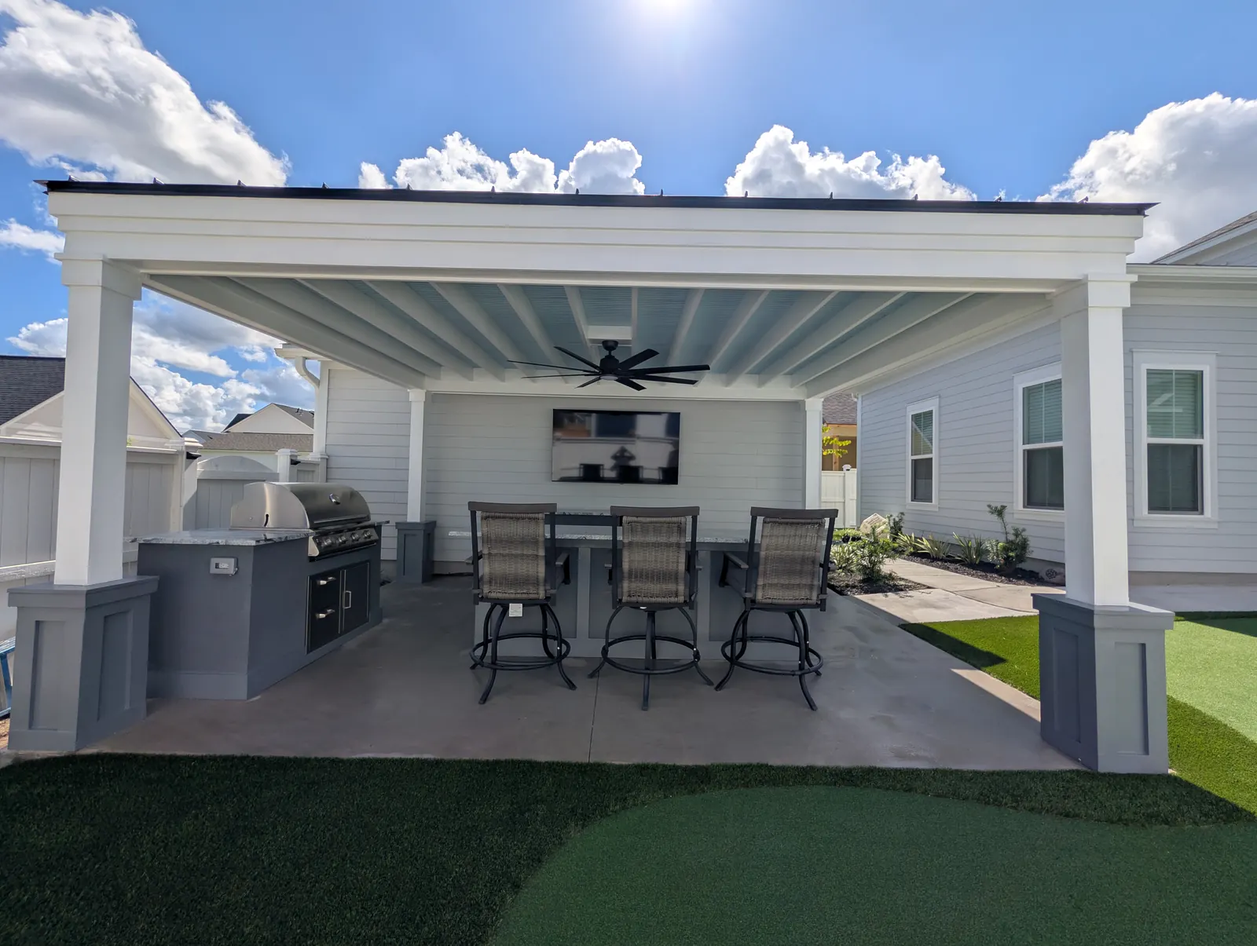
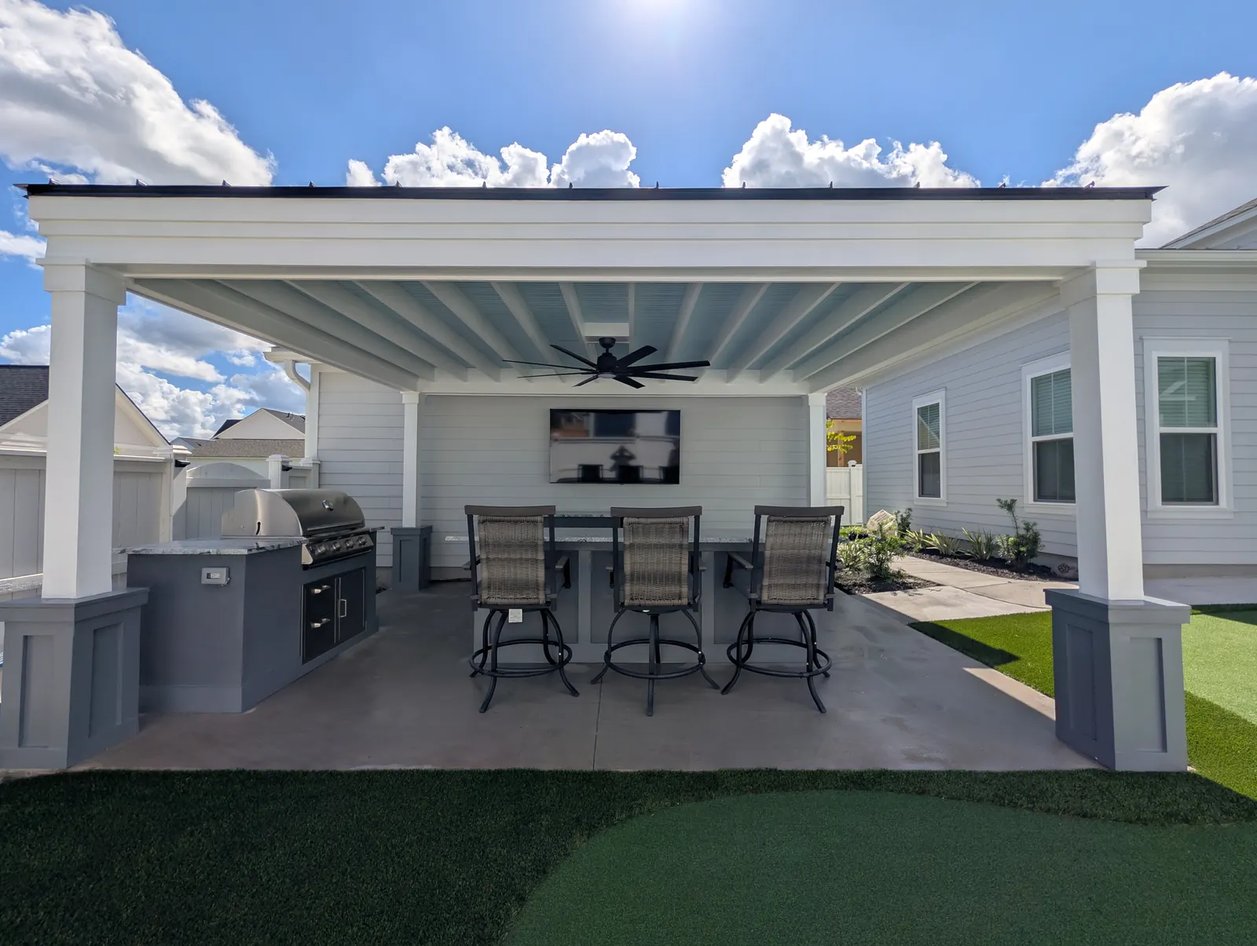
Content fixes from Zach's review: HOA help, free consultation, range-hood fan option, corrected U-kitchen, natural wording, new kitchen lead photo, straightened pergola photo, trimmed night-kitchen bars

Changed region(s): [[0.0, 0.0, 1.0, 0.8598], [0.25, 0.8598, 0.5, 1.0], [0.9062, 0.0614, 1.0, 0.1535]]

diff --git a/outdoor-kitchens.html b/outdoor-kitchens.html
@@ -14,7 +14,7 @@
 <link rel="stylesheet" href="assets/site-fixes.css?v=656ac30cd0">
 <link rel="preload" as="image" href="assets/work/summerville-modern-pergola-kitchen-800.webp" media="(max-width:760px)" fetchpriority="high">
 <link rel="preload" as="image" href="assets/work/summerville-modern-pergola-kitchen-1600.webp" media="(min-width:761px)" fetchpriority="high">
-<script type="application/ld+json">{"@context": "https://schema.org", "@type": "FAQPage", "mainEntity": [{"@type": "Question", "name": "How much does an outdoor kitchen cost?", "acceptedAnswer": {"@type": "Answer", "text": "Most of our outdoor kitchens fall between $8,000 and $20,000+. Appliances are the biggest part of the budget, and we don’t mark them up. The structure overhead (a pergola or pavilion) is priced separately."}}, {"@type": "Question", "name": "Can I supply my own grill and appliances?", "acceptedAnswer": {"@type": "Answer", "text": "Yes. We usually install Blaze appliances, but you’re welcome to choose and supply your own."}}, {"@type": "Question", "name": "Do you run the gas, electrical and plumbing?", "acceptedAnswer": {"@type": "Answer", "text": "Yes, all in-house, along with the permits. Your kitchen is ready to cook on the day we finish, with no second contractor to hire."}}, {"@type": "Question", "name": "How long does it take to build?", "acceptedAnswer": {"@type": "Answer", "text": "A simple kitchen with a pergola is built in about a week. If there’s a structure that needs a permit, allow about 4 to 6 weeks for permitting first. Pavilions take 6 to 8 weeks to build."}}, {"@type": "Question", "name": "Do I need a roof over my outdoor kitchen?", "acceptedAnswer": {"@type": "Answer", "text": "We almost always build one. A pergola or pavilion protects the kitchen, gives you shade and a place for fans, lights and a TV, and makes the space usable in the rain."}}, {"@type": "Question", "name": "Should I add a trash can to the cabinets?", "acceptedAnswer": {"@type": "Answer", "text": "Only if you’ll keep it clean. A built-in trash can is convenient, but a dirty one attracts rats, so we talk it through before adding one."}}]}</script>
+<script type="application/ld+json">{"@context": "https://schema.org", "@type": "FAQPage", "mainEntity": [{"@type": "Question", "name": "How much does an outdoor kitchen cost?", "acceptedAnswer": {"@type": "Answer", "text": "Most of our outdoor kitchens fall between $8,000 and $20,000+. Appliances are usually the biggest part of the cost, and we don’t add any markup to them. A pergola or pavilion over the kitchen is priced separately."}}, {"@type": "Question", "name": "Can I supply my own grill and appliances?", "acceptedAnswer": {"@type": "Answer", "text": "Yes. We usually install Blaze appliances, but you’re welcome to choose and supply your own."}}, {"@type": "Question", "name": "Do you run the gas, electrical and plumbing?", "acceptedAnswer": {"@type": "Answer", "text": "Yes, all in-house, along with the permits. Your kitchen is ready to cook on the day we finish, with no second contractor to hire."}}, {"@type": "Question", "name": "How long does it take to build?", "acceptedAnswer": {"@type": "Answer", "text": "A simple kitchen with a pergola is built in about a week. If there’s a structure that needs a permit, allow about 4 to 6 weeks for permitting first. Pavilions take 6 to 8 weeks to build."}}, {"@type": "Question", "name": "Is the consultation free?", "acceptedAnswer": {"@type": "Answer", "text": "Yes, anywhere in our main service area around Charleston, Mount Pleasant and Summerville. For farther areas like Bluffton or Kiawah Island, there’s a trip charge."}}, {"@type": "Question", "name": "Do I need a roof over my outdoor kitchen?", "acceptedAnswer": {"@type": "Answer", "text": "We almost always build one. A pergola or pavilion protects the kitchen, gives you shade and a place for fans, lights and a TV, and makes the space usable in the rain."}}, {"@type": "Question", "name": "Should I add a trash can to the cabinets?", "acceptedAnswer": {"@type": "Answer", "text": "Only if you’ll keep it clean. A built-in trash can is convenient, but a dirty one attracts rats, so we talk it through before adding one."}}]}</script>
 </head>
 <body>
 <div class="sbx"><span class="lbl">sandbox</span><a href="_all-pages.html">all 61 pages</a><a class="live" href="https://cramerslandscaping.com/outdoor-kitchens/" target="_blank" rel="noopener">compare live &#8599;</a></div><header class="site-head"><div class="wrap"><a class="site-logo" href="index.html"><img src="assets/logo-white-accent.png?v=d468089239" alt="Cramers Landscaping" width="854" height="170"></a><nav><ul class="site-nav"><li class="pill"><a href="index.html">Home</a></li><li class="pill"><a href="services.html">Services</a><div class="mega"><ul><li><a href="landscape-installation.html"><img src="assets/img/water-system-new-1-300x300.webp" alt="" aria-hidden="true">Landscape Installation</a></li><li><a href="hardscape-installation.html"><img src="assets/img/paving-300x300.webp" alt="" aria-hidden="true">Hardscaping</a></li><li><a href="outdoor-structures.html"><img src="assets/img/foundation-1-300x300.webp" alt="" aria-hidden="true">Outdoor Structures</a></li><li><a href="landscape-design.html"><img src="assets/img/digital-art-1.webp" alt="" aria-hidden="true">Landscape Design</a></li></ul></div></li><li class="pill"><a href="about.html">About</a></li><li class="pill"><a href="blog.html">Blog</a></li><li class="btn"><a href="contact-us.html">Contact Us</a></li></ul></nav></div></header>
@@ -27,12 +27,12 @@
 </div>
 <nav class="cl-tabs" aria-label="Sections"><div class="cl-wrap"><ul><li><a href="outdoor-structures.html">Overview</a></li><li><a href="outdoor-kitchens.html" aria-current="page">Outdoor Kitchens</a></li><li><a href="pergolas.html">Pergolas</a></li><li><a href="pergolas-pavilions.html">Pavilions</a></li><li><a href="fountain-water.html">Water Features</a></li><li><a href="outdoor-shower-installation-charleston-sc.html">Outdoor Showers</a></li><li><a href="outdoor-foundation.html">Foundations</a></li></ul></div></nav>
 <div class="cl-sec"><div class="cl-wrap"><div class="cl-two">
-<div class="cl-two-media"><img src="assets/work/summerville-custom-outdoor-kitchen-grill-1600.webp" srcset="assets/work/summerville-custom-outdoor-kitchen-grill-800.webp 800w, assets/work/summerville-custom-outdoor-kitchen-grill-1600.webp 1600w" sizes="(max-width:860px) 100vw, 50vw" alt="Custom outdoor kitchen grill in Summerville, SC" width="1600" height="1205" loading="lazy" decoding="async"></div>
+<div class="cl-two-media"><img src="assets/work/mount-pleasant-custom-outdoor-kitchen-1600.webp" srcset="assets/work/mount-pleasant-custom-outdoor-kitchen-800.webp 800w, assets/work/mount-pleasant-custom-outdoor-kitchen-1600.webp 1600w" sizes="(max-width:860px) 100vw, 50vw" alt="Custom outdoor kitchen in Mount Pleasant, SC" width="1170" height="878" loading="lazy" decoding="async"></div>
 <div>
 
 <p class="cl-eyebrow-line">Designed &amp; Built In-House</p>
 <h2>Outdoor Kitchens Built for <span class="g">How You Actually Cook and Host</span></h2>
-<p>An outdoor kitchen is usually the heart of an outdoor living space. It’s where everyone ends up. We design and build yours from start to finish with our own team, including the <strong>gas lines, electrical, plumbing and permits</strong>. There’s no hand-off to other contractors and nothing left for you to chase down, and the kitchen is ready to use the day we finish.</p>
+<p>An outdoor kitchen is usually the heart of an outdoor living space. It’s where everyone ends up. We design and build yours from start to finish with our own team, including the <strong>gas lines, electrical, plumbing and permits</strong>. You won’t need to hire anyone else, and the kitchen is ready to cook on the day we finish.</p>
 <p>Doug and Zach Cramer design every kitchen around how you’ll use it, what you want to spend, and the style of your home, so it looks like it belongs there.</p>
 
 </div>
@@ -63,7 +63,7 @@
 <li><strong>Wood cabinets</strong> give a warmer, rustic look. We’ve built several and they’ve turned out great.</li>
 <li><strong>Concrete countertops</strong> are a solid lower-cost option.</li>
 </ul>
-<p><strong>Appliances:</strong> we usually install <strong>Blaze</strong>, but you’re welcome to supply your own. Appliances make up a large share of the budget, and we don’t mark them up.</p>
+<p>For appliances, we usually install <strong>Blaze</strong>, but you’re welcome to pick out your own. Appliances tend to be the biggest part of a kitchen’s cost, and we don’t add any markup to them.</p>
 
 </div>
 </div></div></div>
@@ -71,36 +71,36 @@
 
 <h2>The Details <span class="g">That Matter Later</span></h2>
 <figure class="cl-inline l w"><img src="assets/work/james-island-rustic-back-porch-kitchen-1600.webp" srcset="assets/work/james-island-rustic-back-porch-kitchen-800.webp 800w, assets/work/james-island-rustic-back-porch-kitchen-1600.webp 1600w" sizes="(max-width:860px) 100vw, 45vw" alt="Rustic back porch kitchen in James Island, SC" width="1600" height="1200" loading="lazy" decoding="async"><figcaption>Rustic back porch kitchen — James Island, SC</figcaption></figure>
-<p><strong>A range hood over the grill.</strong> Under a porch, pergola or pavilion roof, grill smoke and grease rise and collect on the ceiling. Without a hood, you’re cleaning it constantly and it can damage the paint. We add one whenever the grill sits under a roof.</p>
-<p><strong>Lighting where you work.</strong> Task lighting over prep areas and the bar top means the kitchen works after dark, not just at noon.</p>
-<p><strong>Room for people.</strong> Most kitchens are planned around the cook. We plan the seating, walking space and sight lines so guests are part of the conversation instead of standing in the way.</p>
+<p><strong>A range hood over the grill.</strong> When a grill sits under a porch, pergola or pavilion roof, the smoke and grease rise and collect on the ceiling. Over time that means a lot of cleaning, and it can damage the paint. We recommend a range hood whenever the grill is under a roof.</p>
+<p>If a hood doesn’t fit the budget, running the ceiling fan and adding a second fan to push the smoke out works well. That’s what we did on the pergola kitchen in Summerville.</p>
+<p><strong>Lighting where you cook.</strong> Good lighting over the grill and the bar top means the kitchen works just as well after dark.</p>
 
 </div></div>
 <div class="cl-sec mint"><div class="cl-wrap cl-has-inline">
 
-<h2>Our Most Elaborate Build: <span class="g">A Three-Station U-Kitchen</span></h2>
+<h2>A Three-Station Kitchen <span class="g">Built for Entertaining</span></h2>
 <figure class="cl-inline r p"><img src="assets/work/summerville-outdoor-kitchen-stone-bar-patio-1600.webp" srcset="assets/work/summerville-outdoor-kitchen-stone-bar-patio-800.webp 800w, assets/work/summerville-outdoor-kitchen-stone-bar-patio-1600.webp 1600w" sizes="(max-width:860px) 100vw, 45vw" alt="Outdoor kitchen stone bar patio in Summerville, SC" width="1400" height="1600" loading="lazy" decoding="async"><figcaption>Outdoor kitchen stone bar patio — Summerville, SC</figcaption></figure>
-<p>Our biggest outdoor kitchen so far wraps around the cook in a U shape with three separate stations:</p>
+<p>One of our favorite kitchens wraps around in a U shape with three separate stations:</p>
 <ul class="body">
-<li>A grill with its own range hood, a flat-top griddle and a pizza oven</li>
-<li>Two refrigerators, one with slide-out drawers, plus a sink and plenty of cabinet storage</li>
+<li>A grill with its own range hood, plus a Big Green Egg</li>
+<li>Two refrigerators, one with slide-out drawers, a sink and plenty of cabinet storage</li>
 <li>A bar-top seating station with a sapele wood foot rail</li>
 <li>Custom light fixtures hung over one of the work stations and over the bar top</li>
 </ul>
-<p>Not every kitchen needs all of that, but it shows what’s possible when a kitchen is designed around the way a family actually entertains.</p>
+<p>Most kitchens don’t need all of that, but it shows how a kitchen can be designed around the way a family likes to entertain.</p>
 
 </div></div>
 <div class="cl-sec"><div class="cl-wrap">
 
 <h2>What an Outdoor Kitchen <span class="g">Typically Costs</span></h2>
 <table class="cl-prices"><tbody><tr><th scope="row">Outdoor kitchen</th><td>$8,000 – $20,000+</td></tr><tr><th scope="row">Pergola overhead</th><td>$10,000 – $30,000</td></tr><tr><th scope="row">Pavilion overhead</th><td>$30,000 – $90,000+</td></tr></tbody></table>
-<p class="cl-price-note">The biggest factor is appliances, which we don’t mark up. Size, countertop and cabinet materials, and the gas, electrical and plumbing runs also affect the price. You’ll get an exact quote once the design is set.</p>
+<p class="cl-price-note">Appliances have the biggest effect on the price, and we don’t mark them up. Size, countertop and cabinet materials, and how far the gas, electrical and plumbing need to run also play a part. You’ll get an exact quote once the design is set.</p>
 </div></div>
 <div class="cl-sec mint"><div class="cl-wrap">
 
 <h2>How We <span class="g">Build Yours</span></h2>
 <ol class="body">
-<li><strong>Consultation at your home</strong>, usually within a week of your call. We talk about how you cook and host and what budget you’re comfortable with.</li>
+<li><strong>Free consultation at your home</strong>, usually within a week of your call. We talk about how you cook and host and what budget you’re comfortable with.</li>
 <li><strong>Budget</strong> within about a week.</li>
 <li><strong>Design</strong>: 3D renderings and drawings, 1 to 4 weeks depending on complexity. We match the kitchen to your home’s architecture.</li>
 <li><strong>Final quote and permits.</strong> Structures need a permit, which takes about 4 to 6 weeks.</li>
@@ -111,7 +111,7 @@
 </div></div>
 <div class="cl-sec"><div class="cl-wrap">
 <h2>Frequently Asked <span class="g">Questions</span></h2>
-<div class="cl-faq"><details open><summary>How much does an outdoor kitchen cost?</summary><p>Most of our outdoor kitchens fall between $8,000 and $20,000+. Appliances are the biggest part of the budget, and we don’t mark them up. The structure overhead (a pergola or pavilion) is priced separately.</p></details><details><summary>Can I supply my own grill and appliances?</summary><p>Yes. We usually install Blaze appliances, but you’re welcome to choose and supply your own.</p></details><details><summary>Do you run the gas, electrical and plumbing?</summary><p>Yes, all in-house, along with the permits. Your kitchen is ready to cook on the day we finish, with no second contractor to hire.</p></details><details><summary>How long does it take to build?</summary><p>A simple kitchen with a pergola is built in about a week. If there’s a structure that needs a permit, allow about 4 to 6 weeks for permitting first. Pavilions take 6 to 8 weeks to build.</p></details><details><summary>Do I need a roof over my outdoor kitchen?</summary><p>We almost always build one. A pergola or pavilion protects the kitchen, gives you shade and a place for fans, lights and a TV, and makes the space usable in the rain.</p></details><details><summary>Should I add a trash can to the cabinets?</summary><p>Only if you’ll keep it clean. A built-in trash can is convenient, but a dirty one attracts rats, so we talk it through before adding one.</p></details></div>
+<div class="cl-faq"><details open><summary>How much does an outdoor kitchen cost?</summary><p>Most of our outdoor kitchens fall between $8,000 and $20,000+. Appliances are usually the biggest part of the cost, and we don’t add any markup to them. A pergola or pavilion over the kitchen is priced separately.</p></details><details><summary>Can I supply my own grill and appliances?</summary><p>Yes. We usually install Blaze appliances, but you’re welcome to choose and supply your own.</p></details><details><summary>Do you run the gas, electrical and plumbing?</summary><p>Yes, all in-house, along with the permits. Your kitchen is ready to cook on the day we finish, with no second contractor to hire.</p></details><details><summary>How long does it take to build?</summary><p>A simple kitchen with a pergola is built in about a week. If there’s a structure that needs a permit, allow about 4 to 6 weeks for permitting first. Pavilions take 6 to 8 weeks to build.</p></details><details><summary>Is the consultation free?</summary><p>Yes, anywhere in our main service area around Charleston, Mount Pleasant and Summerville. For farther areas like Bluffton or Kiawah Island, there’s a trip charge.</p></details><details><summary>Do I need a roof over my outdoor kitchen?</summary><p>We almost always build one. A pergola or pavilion protects the kitchen, gives you shade and a place for fans, lights and a TV, and makes the space usable in the rain.</p></details><details><summary>Should I add a trash can to the cabinets?</summary><p>Only if you’ll keep it clean. A built-in trash can is convenient, but a dirty one attracts rats, so we talk it through before adding one.</p></details></div>
 </div></div>
 <div class="cl-sec mint"><div class="cl-wrap">
 <h2><span class="cl-eyebrow">Plan</span> Your Outdoor <span class="cl-eyebrow">Kitchen</span></h2>

diff --git a/portfolio.html b/portfolio.html
@@ -199,7 +199,7 @@ This job showcased our masonry with the brick columns and bluestone and showcase
 <figure><a href="assets/work/mount-pleasant-wood-deck-under-a-live-oak-1600.webp" target="_blank" rel="noopener"><img src="assets/work/mount-pleasant-wood-deck-under-a-live-oak-800.webp" srcset="assets/work/mount-pleasant-wood-deck-under-a-live-oak-800.webp 800w, assets/work/mount-pleasant-wood-deck-under-a-live-oak-1600.webp 1600w" sizes="(max-width:900px) 50vw, 33vw" alt="Wood deck under a live oak in Mount Pleasant, SC" width="1600" height="1200" loading="lazy" decoding="async"></a><figcaption>Wood deck under a live oak — Mount Pleasant, SC</figcaption></figure>
 <figure><a href="assets/work/north-charleston-back-porch-kitchen-addition-1600.webp" target="_blank" rel="noopener"><img src="assets/work/north-charleston-back-porch-kitchen-addition-800.webp" srcset="assets/work/north-charleston-back-porch-kitchen-addition-800.webp 800w, assets/work/north-charleston-back-porch-kitchen-addition-1600.webp 1600w" sizes="(max-width:900px) 50vw, 33vw" alt="Back porch kitchen addition in North Charleston, SC" width="1600" height="1200" loading="lazy" decoding="async"></a><figcaption>Back porch kitchen addition — North Charleston, SC</figcaption></figure>
 <figure><a href="assets/work/north-charleston-bluestone-patio-and-new-lawn-1600.webp" target="_blank" rel="noopener"><img src="assets/work/north-charleston-bluestone-patio-and-new-lawn-800.webp" srcset="assets/work/north-charleston-bluestone-patio-and-new-lawn-800.webp 800w, assets/work/north-charleston-bluestone-patio-and-new-lawn-1600.webp 1600w" sizes="(max-width:900px) 50vw, 33vw" alt="Bluestone patio and new lawn in North Charleston, SC" width="1600" height="1200" loading="lazy" decoding="async"></a><figcaption>Bluestone patio and new lawn — North Charleston, SC</figcaption></figure>
-<figure><a href="assets/work/north-charleston-custom-outdoor-kitchen-1600.webp" target="_blank" rel="noopener"><img src="assets/work/north-charleston-custom-outdoor-kitchen-800.webp" srcset="assets/work/north-charleston-custom-outdoor-kitchen-800.webp 800w, assets/work/north-charleston-custom-outdoor-kitchen-1600.webp 1600w" sizes="(max-width:900px) 50vw, 33vw" alt="Custom outdoor kitchen in North Charleston, SC" width="1600" height="739" loading="lazy" decoding="async"></a><figcaption>Custom outdoor kitchen — North Charleston, SC</figcaption></figure>
+<figure><a href="assets/work/north-charleston-custom-outdoor-kitchen-1600.webp" target="_blank" rel="noopener"><img src="assets/work/north-charleston-custom-outdoor-kitchen-800.webp" srcset="assets/work/north-charleston-custom-outdoor-kitchen-800.webp 800w, assets/work/north-charleston-custom-outdoor-kitchen-1600.webp 1600w" sizes="(max-width:900px) 50vw, 33vw" alt="Custom outdoor kitchen in North Charleston, SC" width="800" height="450" loading="lazy" decoding="async"></a><figcaption>Custom outdoor kitchen — North Charleston, SC</figcaption></figure>
 <figure><a href="assets/work/north-charleston-pergola-over-a-paver-patio-1600.webp" target="_blank" rel="noopener"><img src="assets/work/north-charleston-pergola-over-a-paver-patio-800.webp" srcset="assets/work/north-charleston-pergola-over-a-paver-patio-800.webp 800w, assets/work/north-charleston-pergola-over-a-paver-patio-1600.webp 1600w" sizes="(max-width:900px) 50vw, 33vw" alt="Pergola over a paver patio in North Charleston, SC" width="1500" height="675" loading="lazy" decoding="async"></a><figcaption>Pergola over a paver patio — North Charleston, SC</figcaption></figure>
 <figure><a href="assets/work/north-charleston-pergola-swing-set-around-a-fire-pit-1600.webp" target="_blank" rel="noopener"><img src="assets/work/north-charleston-pergola-swing-set-around-a-fire-pit-800.webp" srcset="assets/work/north-charleston-pergola-swing-set-around-a-fire-pit-800.webp 800w, assets/work/north-charleston-pergola-swing-set-around-a-fire-pit-1600.webp 1600w" sizes="(max-width:900px) 50vw, 33vw" alt="Pergola swing set around a fire pit in North Charleston, SC" width="1200" height="1600" loading="lazy" decoding="async"></a><figcaption>Pergola swing set around a fire pit — North Charleston, SC</figcaption></figure>
 <figure><a href="assets/work/north-charleston-wood-privacy-fence-1600.webp" target="_blank" rel="noopener"><img src="assets/work/north-charleston-wood-privacy-fence-800.webp" srcset="assets/work/north-charleston-wood-privacy-fence-800.webp 800w, assets/work/north-charleston-wood-privacy-fence-1600.webp 1600w" sizes="(max-width:900px) 50vw, 33vw" alt="Wood privacy fence in North Charleston, SC" width="1200" height="1200" loading="lazy" decoding="async"></a><figcaption>Wood privacy fence — North Charleston, SC</figcaption></figure>
@@ -216,7 +216,7 @@ This job showcased our masonry with the brick columns and bluestone and showcase
 <figure><a href="assets/work/summerville-custom-outdoor-kitchen-3-1600.webp" target="_blank" rel="noopener"><img src="assets/work/summerville-custom-outdoor-kitchen-3-800.webp" srcset="assets/work/summerville-custom-outdoor-kitchen-3-800.webp 800w, assets/work/summerville-custom-outdoor-kitchen-3-1600.webp 1600w" sizes="(max-width:900px) 50vw, 33vw" alt="Custom outdoor kitchen in Summerville, SC" width="1600" height="1205" loading="lazy" decoding="async"></a><figcaption>Custom outdoor kitchen — Summerville, SC</figcaption></figure>
 <figure><a href="assets/work/summerville-custom-outdoor-kitchen-grill-1600.webp" target="_blank" rel="noopener"><img src="assets/work/summerville-custom-outdoor-kitchen-grill-800.webp" srcset="assets/work/summerville-custom-outdoor-kitchen-grill-800.webp 800w, assets/work/summerville-custom-outdoor-kitchen-grill-1600.webp 1600w" sizes="(max-width:900px) 50vw, 33vw" alt="Custom outdoor kitchen grill in Summerville, SC" width="1600" height="1205" loading="lazy" decoding="async"></a><figcaption>Custom outdoor kitchen grill — Summerville, SC</figcaption></figure>
 <figure><a href="assets/work/summerville-custom-outdoor-kitchen-patio-design-1600.webp" target="_blank" rel="noopener"><img src="assets/work/summerville-custom-outdoor-kitchen-patio-design-800.webp" srcset="assets/work/summerville-custom-outdoor-kitchen-patio-design-800.webp 800w, assets/work/summerville-custom-outdoor-kitchen-patio-design-1600.webp 1600w" sizes="(max-width:900px) 50vw, 33vw" alt="Custom outdoor kitchen patio design in Summerville, SC" width="1400" height="1600" loading="lazy" decoding="async"></a><figcaption>Custom outdoor kitchen patio design — Summerville, SC</figcaption></figure>
-<figure><a href="assets/work/summerville-custom-pergola-outdoor-kitchen-1600.webp" target="_blank" rel="noopener"><img src="assets/work/summerville-custom-pergola-outdoor-kitchen-800.webp" srcset="assets/work/summerville-custom-pergola-outdoor-kitchen-800.webp 800w, assets/work/summerville-custom-pergola-outdoor-kitchen-1600.webp 1600w" sizes="(max-width:900px) 50vw, 33vw" alt="Custom pergola outdoor kitchen in Summerville, SC" width="1600" height="1205" loading="lazy" decoding="async"></a><figcaption>Custom pergola outdoor kitchen — Summerville, SC</figcaption></figure>
+<figure><a href="assets/work/summerville-custom-pergola-outdoor-kitchen-1600.webp" target="_blank" rel="noopener"><img src="assets/work/summerville-custom-pergola-outdoor-kitchen-800.webp" srcset="assets/work/summerville-custom-pergola-outdoor-kitchen-800.webp 800w, assets/work/summerville-custom-pergola-outdoor-kitchen-1600.webp 1600w" sizes="(max-width:900px) 50vw, 33vw" alt="Custom pergola outdoor kitchen in Summerville, SC" width="800" height="602" loading="lazy" decoding="async"></a><figcaption>Custom pergola outdoor kitchen — Summerville, SC</figcaption></figure>
 <figure><a href="assets/work/summerville-custom-pool-fire-features-landscape-1600.webp" target="_blank" rel="noopener"><img src="assets/work/summerville-custom-pool-fire-features-landscape-800.webp" srcset="assets/work/summerville-custom-pool-fire-features-landscape-800.webp 800w, assets/work/summerville-custom-pool-fire-features-landscape-1600.webp 1600w" sizes="(max-width:900px) 50vw, 33vw" alt="Custom pool fire features landscape in Summerville, SC" width="900" height="1600" loading="lazy" decoding="async"></a><figcaption>Custom pool fire features landscape — Summerville, SC</figcaption></figure>
 <figure><a href="assets/work/summerville-custom-putting-green-outdoor-living-1600.webp" target="_blank" rel="noopener"><img src="assets/work/summerville-custom-putting-green-outdoor-living-800.webp" srcset="assets/work/summerville-custom-putting-green-outdoor-living-800.webp 800w, assets/work/summerville-custom-putting-green-outdoor-living-1600.webp 1600w" sizes="(max-width:900px) 50vw, 33vw" alt="Custom putting green outdoor living in Summerville, SC" width="1600" height="1205" loading="lazy" decoding="async"></a><figcaption>Custom putting green outdoor living — Summerville, SC</figcaption></figure>
 <figure><a href="assets/work/summerville-customized-backyard-bar-seating-area-1600.webp" target="_blank" rel="noopener"><img src="assets/work/summerville-customized-backyard-bar-seating-area-800.webp" srcset="assets/work/summerville-customized-backyard-bar-seating-area-800.webp 800w, assets/work/summerville-customized-backyard-bar-seating-area-1600.webp 1600w" sizes="(max-width:900px) 50vw, 33vw" alt="Customized backyard bar seating area in Summerville, SC" width="1200" height="1600" loading="lazy" decoding="async"></a><figcaption>Customized backyard bar seating area — Summerville, SC</figcaption></figure>

diff --git a/summerville-sc.html b/summerville-sc.html
@@ -14,7 +14,7 @@
 <link rel="stylesheet" href="assets/site-fixes.css?v=656ac30cd0">
 <link rel="preload" as="image" href="assets/work/summerville-porch-addition-paver-patio-800.webp" media="(max-width:760px)" fetchpriority="high">
 <link rel="preload" as="image" href="assets/work/summerville-porch-addition-paver-patio-1600.webp" media="(min-width:761px)" fetchpriority="high">
-<script type="application/ld+json">{"@context": "https://schema.org", "@type": "FAQPage", "mainEntity": [{"@type": "Question", "name": "How soon can you come look at my yard?", "acceptedAnswer": {"@type": "Answer", "text": "Usually within a week, and often in just a couple of days. Doug or Zach comes out in person for the consultation."}}, {"@type": "Question", "name": "Do I have to pay for a design?", "acceptedAnswer": {"@type": "Answer", "text": "Not for smaller, straightforward jobs: we quote and plan those right after the consultation. Larger projects get a paid design with 3D renderings and drawings; on smaller designs that fee can be credited toward the build."}}, {"@type": "Question", "name": "My new-construction yard in Nexton or Summers Corner holds water. Can you fix it?", "acceptedAnswer": {"@type": "Answer", "text": "Yes. Drainage problems are common in new builds around Summerville. We regrade and add drainage so water moves away from the house, and we can plan the lawn and beds at the same time so it only gets done once."}}, {"@type": "Question", "name": "Does my neighborhood need HOA approval?", "acceptedAnswer": {"@type": "Answer", "text": "Some Summerville neighborhoods do. We’ll tell you up front if yours does and make sure the plan fits the guidelines before anything is built."}}, {"@type": "Question", "name": "Do you take small jobs like sod, mulch or an irrigation repair?", "acceptedAnswer": {"@type": "Answer", "text": "Yes. There’s no minimum job size. A job that’s less than a day’s work is simply priced for the partial day."}}, {"@type": "Question", "name": "Do you handle permits, gas and electrical for kitchens and pergolas?", "acceptedAnswer": {"@type": "Answer", "text": "Yes, all in-house. Permits, gas lines, electrical and plumbing are handled by our own team, so nothing gets left for you to chase down after we finish."}}]}</script>
+<script type="application/ld+json">{"@context": "https://schema.org", "@type": "FAQPage", "mainEntity": [{"@type": "Question", "name": "How soon can you come look at my yard?", "acceptedAnswer": {"@type": "Answer", "text": "Usually within a week, and often in just a couple of days. Doug or Zach comes out in person, and the consultation is free."}}, {"@type": "Question", "name": "Do I have to pay for a design?", "acceptedAnswer": {"@type": "Answer", "text": "Not for smaller, straightforward jobs: we quote and plan those right after the consultation. Larger projects get a paid design with 3D renderings and drawings; on smaller designs that fee can be credited toward the build."}}, {"@type": "Question", "name": "My new-construction yard in Nexton or Summers Corner holds water. Can you fix it?", "acceptedAnswer": {"@type": "Answer", "text": "Yes. Drainage problems are common in new builds around Summerville. We regrade and add drainage so water moves away from the house, and we can plan the lawn and beds at the same time so it only gets done once."}}, {"@type": "Question", "name": "Does my neighborhood need HOA approval?", "acceptedAnswer": {"@type": "Answer", "text": "Some Summerville neighborhoods do. We’ll let you know up front, design to your HOA’s guidelines, and we can prepare and submit the application for you."}}, {"@type": "Question", "name": "Do you take small jobs like sod, mulch or an irrigation repair?", "acceptedAnswer": {"@type": "Answer", "text": "Yes. There’s no minimum job size. A job that’s less than a day’s work is simply priced for the partial day."}}, {"@type": "Question", "name": "Do you handle permits, gas and electrical for kitchens and pergolas?", "acceptedAnswer": {"@type": "Answer", "text": "Yes, all in-house. Permits, gas lines, electrical and plumbing are handled by our own team, so nothing gets left for you to chase down after we finish."}}]}</script>
 </head>
 <body>
 <div class="sbx"><span class="lbl">sandbox</span><a href="_all-pages.html">all 61 pages</a><a class="live" href="https://cramerslandscaping.com/summerville-sc/" target="_blank" rel="noopener">compare live &#8599;</a></div><header class="site-head"><div class="wrap"><a class="site-logo" href="index.html"><img src="assets/logo-white-accent.png?v=d468089239" alt="Cramers Landscaping" width="854" height="170"></a><nav><ul class="site-nav"><li class="pill"><a href="index.html">Home</a></li><li class="pill"><a href="services.html">Services</a><div class="mega"><ul><li><a href="landscape-installation.html"><img src="assets/img/water-system-new-1-300x300.webp" alt="" aria-hidden="true">Landscape Installation</a></li><li><a href="hardscape-installation.html"><img src="assets/img/paving-300x300.webp" alt="" aria-hidden="true">Hardscaping</a></li><li><a href="outdoor-structures.html"><img src="assets/img/foundation-1-300x300.webp" alt="" aria-hidden="true">Outdoor Structures</a></li><li><a href="landscape-design.html"><img src="assets/img/digital-art-1.webp" alt="" aria-hidden="true">Landscape Design</a></li></ul></div></li><li class="pill"><a href="about.html">About</a></li><li class="pill"><a href="blog.html">Blog</a></li><li class="btn"><a href="contact-us.html">Contact Us</a></li></ul></nav></div></header>
@@ -102,11 +102,11 @@
 </div></div>
 <div class="cl-sec"><div class="cl-wrap">
 <h2>Frequently Asked <span class="g">Questions</span></h2>
-<div class="cl-faq"><details open><summary>How soon can you come look at my yard?</summary><p>Usually within a week, and often in just a couple of days. Doug or Zach comes out in person for the consultation.</p></details><details><summary>Do I have to pay for a design?</summary><p>Not for smaller, straightforward jobs: we quote and plan those right after the consultation. Larger projects get a paid design with 3D renderings and drawings; on smaller designs that fee can be credited toward the build.</p></details><details><summary>My new-construction yard in Nexton or Summers Corner holds water. Can you fix it?</summary><p>Yes. Drainage problems are common in new builds around Summerville. We regrade and add drainage so water moves away from the house, and we can plan the lawn and beds at the same time so it only gets done once.</p></details><details><summary>Does my neighborhood need HOA approval?</summary><p>Some Summerville neighborhoods do. We’ll tell you up front if yours does and make sure the plan fits the guidelines before anything is built.</p></details><details><summary>Do you take small jobs like sod, mulch or an irrigation repair?</summary><p>Yes. There’s no minimum job size. A job that’s less than a day’s work is simply priced for the partial day.</p></details><details><summary>Do you handle permits, gas and electrical for kitchens and pergolas?</summary><p>Yes, all in-house. Permits, gas lines, electrical and plumbing are handled by our own team, so nothing gets left for you to chase down after we finish.</p></details></div>
+<div class="cl-faq"><details open><summary>How soon can you come look at my yard?</summary><p>Usually within a week, and often in just a couple of days. Doug or Zach comes out in person, and the consultation is free.</p></details><details><summary>Do I have to pay for a design?</summary><p>Not for smaller, straightforward jobs: we quote and plan those right after the consultation. Larger projects get a paid design with 3D renderings and drawings; on smaller designs that fee can be credited toward the build.</p></details><details><summary>My new-construction yard in Nexton or Summers Corner holds water. Can you fix it?</summary><p>Yes. Drainage problems are common in new builds around Summerville. We regrade and add drainage so water moves away from the house, and we can plan the lawn and beds at the same time so it only gets done once.</p></details><details><summary>Does my neighborhood need HOA approval?</summary><p>Some Summerville neighborhoods do. We’ll let you know up front, design to your HOA’s guidelines, and we can prepare and submit the application for you.</p></details><details><summary>Do you take small jobs like sod, mulch or an irrigation repair?</summary><p>Yes. There’s no minimum job size. A job that’s less than a day’s work is simply priced for the partial day.</p></details><details><summary>Do you handle permits, gas and electrical for kitchens and pergolas?</summary><p>Yes, all in-house. Permits, gas lines, electrical and plumbing are handled by our own team, so nothing gets left for you to chase down after we finish.</p></details></div>
 </div></div>
 <div class="cl-sec mint"><div class="cl-wrap">
 <h2><span class="cl-eyebrow">Talk to</span> Doug or Zach <span class="cl-eyebrow">About Your Yard</span></h2>
-<p>Tell us what you have in mind for your Summerville yard, whether that’s a quick sod job or a full backyard, and we’ll set up a time to come out.</p>
+<p>Tell us what you have in mind for your Summerville yard, whether that’s a quick sod job or a full backyard, and we’ll set up a free consultation at your home.</p>
 <form class="cl-form" action="#" data-wpforms-id="1123">
   <div class="cl-form-row">
     <label for="name">Name <span class="req">*</span></label>

diff --git a/north-charleston-sc.html b/north-charleston-sc.html
@@ -90,7 +90,7 @@
 <p><span style="font-weight: 400;">We serve a wide range of property types in North Charleston, including:</span></p> <ul class="body"> <li style="font-weight: 400;" aria-level="1"><span style="font-weight: 400;">Primary homes</span></li> <li style="font-weight: 400;" aria-level="1"><span style="font-weight: 400;">Rental properties</span></li> <li style="font-weight: 400;" aria-level="1"><span style="font-weight: 400;">Short-term rental properties</span></li> <li style="font-weight: 400;" aria-level="1"><span style="font-weight: 400;">Multi-family residences</span></li> <li style="font-weight: 400;" aria-level="1"><span style="font-weight: 400;">Office buildings</span></li> <li style="font-weight: 400;" aria-level="1"><span style="font-weight: 400;">HOA and condo complexes</span></li> <li style="font-weight: 400;" aria-level="1"><span style="font-weight: 400;">New developments and spec builds</span></li> </ul> <p><span style="font-weight: 400;">For owners of investment or rental properties, we offer landscape packages designed to enhance curb appeal, reduce maintenance demands, and improve tenant and guest experiences.</span></p>
 <div class="cl-carousel"><input type="radio" name="g-north-charleston-sc-1" id="g-north-charleston-sc-1-1" checked><input type="radio" name="g-north-charleston-sc-1" id="g-north-charleston-sc-1-2">
 <div class="cl-slides">
-  <figure class="cl-slide"><img src="assets/work/north-charleston-custom-outdoor-kitchen-1600.webp" srcset="assets/work/north-charleston-custom-outdoor-kitchen-800.webp 800w, assets/work/north-charleston-custom-outdoor-kitchen-1600.webp 1600w" sizes="(max-width:860px) 100vw, 50vw" alt="Custom outdoor kitchen in North Charleston, SC" width="1600" height="739" loading="lazy" decoding="async"><label class="cl-prev" for="g-north-charleston-sc-1-2" title="Previous" aria-label="Previous">&#8249;</label><label class="cl-next" for="g-north-charleston-sc-1-2" title="Next" aria-label="Next">&#8250;</label><span class="cl-count">1 / 2</span></figure>
+  <figure class="cl-slide"><img src="assets/work/north-charleston-custom-outdoor-kitchen-1600.webp" srcset="assets/work/north-charleston-custom-outdoor-kitchen-800.webp 800w, assets/work/north-charleston-custom-outdoor-kitchen-1600.webp 1600w" sizes="(max-width:860px) 100vw, 50vw" alt="Custom outdoor kitchen in North Charleston, SC" width="1600" height="900" loading="lazy" decoding="async"><label class="cl-prev" for="g-north-charleston-sc-1-2" title="Previous" aria-label="Previous">&#8249;</label><label class="cl-next" for="g-north-charleston-sc-1-2" title="Next" aria-label="Next">&#8250;</label><span class="cl-count">1 / 2</span></figure>
   <figure class="cl-slide"><img src="assets/work/outdoor-kitchen-island-6fcf-1600.webp" srcset="assets/work/outdoor-kitchen-island-6fcf-800.webp 800w, assets/work/outdoor-kitchen-island-6fcf-1600.webp 1600w" sizes="(max-width:860px) 100vw, 50vw" alt="Outdoor kitchen island by Cramers Landscaping" width="1600" height="1205" loading="lazy" decoding="async"><label class="cl-prev" for="g-north-charleston-sc-1-1" title="Previous" aria-label="Previous">&#8249;</label><label class="cl-next" for="g-north-charleston-sc-1-1" title="Next" aria-label="Next">&#8250;</label><span class="cl-count">2 / 2</span></figure>
 </div>
 </div>
